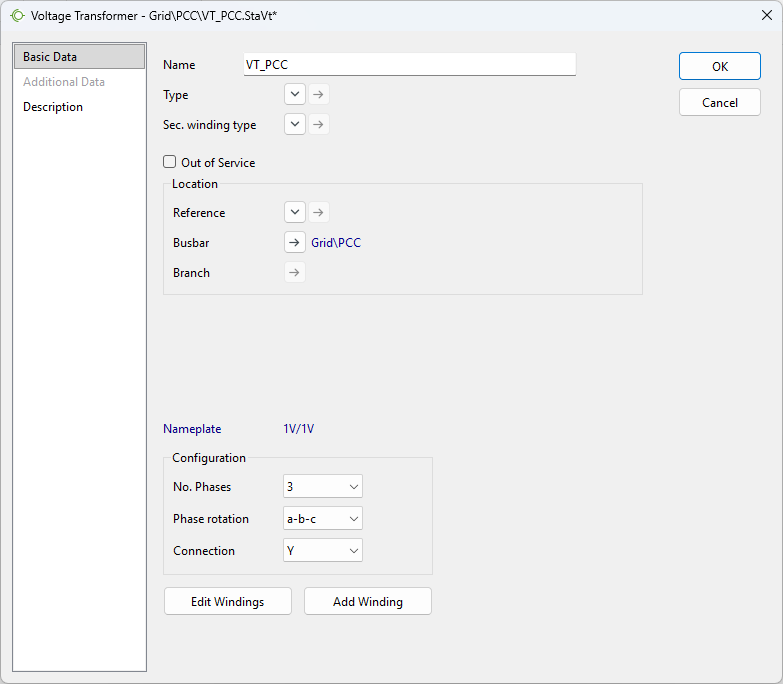
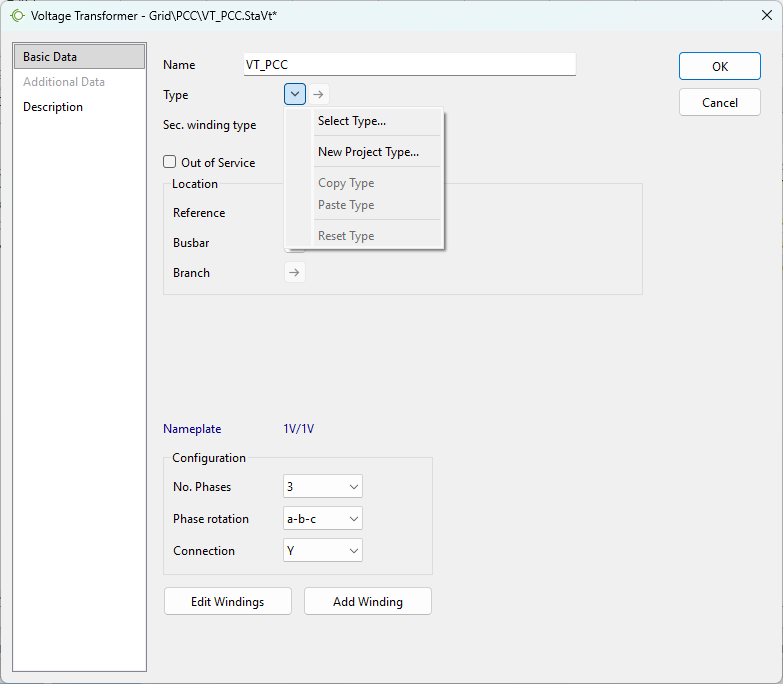
documentation(DLL_in_PF)

diff --git a/docs/DLL_in_PF.rst b/docs/DLL_in_PF.rst
@@ -96,26 +96,14 @@ Select Voltage Transformer from the list of available components (see Figure 4) 
             Figure 5: Pop-up window of the new generated voltage transformer at the PCC busbar in PowerFactory.
 
 After creating the voltage transformer, open its configuration by double-clicking the component. 
-In the transformer configuration dialog, create a new transformer type (see Figure 6) and select Ideal Voltage Transformer (see Figure 7). 
+In the transformer configuration dialog, create a new transformer type (see Figure 5) and select Ideal Voltage Transformer (see Figure 6). 
 The ideal transformer is sufficient for the present application because the purpose of the component is to provide the required voltage measurements rather than to model the physical behavior of a transformer.
 
-.. grid:: 2
+   .. figure:: ./images/PowerFactory/VT_PowerFactory4.png
+      :alt: Pop-up window for the definition of a voltage transformer type.
+      :height: 30em
 
-   .. grid-item::
-
-      .. figure:: ./images/PowerFactory/VT_PowerFactory3.png
-         :alt: Pop-up window for the choice of the newly generated voltage transformer's type.
-         :height: 30em
-
-         Figure 6: Pop-up window for the choice of the newly generated voltage transformer's type.
-
-   .. grid-item::
-
-      .. figure:: ./images/PowerFactory/VT_PowerFactory4.png
-         :alt: Pop-up window for the definition of a voltage transformer type.
-         :height: 30em
-
-         Figure 7: Pop-up window for the definition of a voltage transformer type.
+      Figure 6: Pop-up window for the definition of a voltage transformer type.
 
 The voltage transformer is now connected to the PCC and can be used to obtain the three phase-to-ground voltage signals required by the DLL (see Figure 8 - 10).
 
